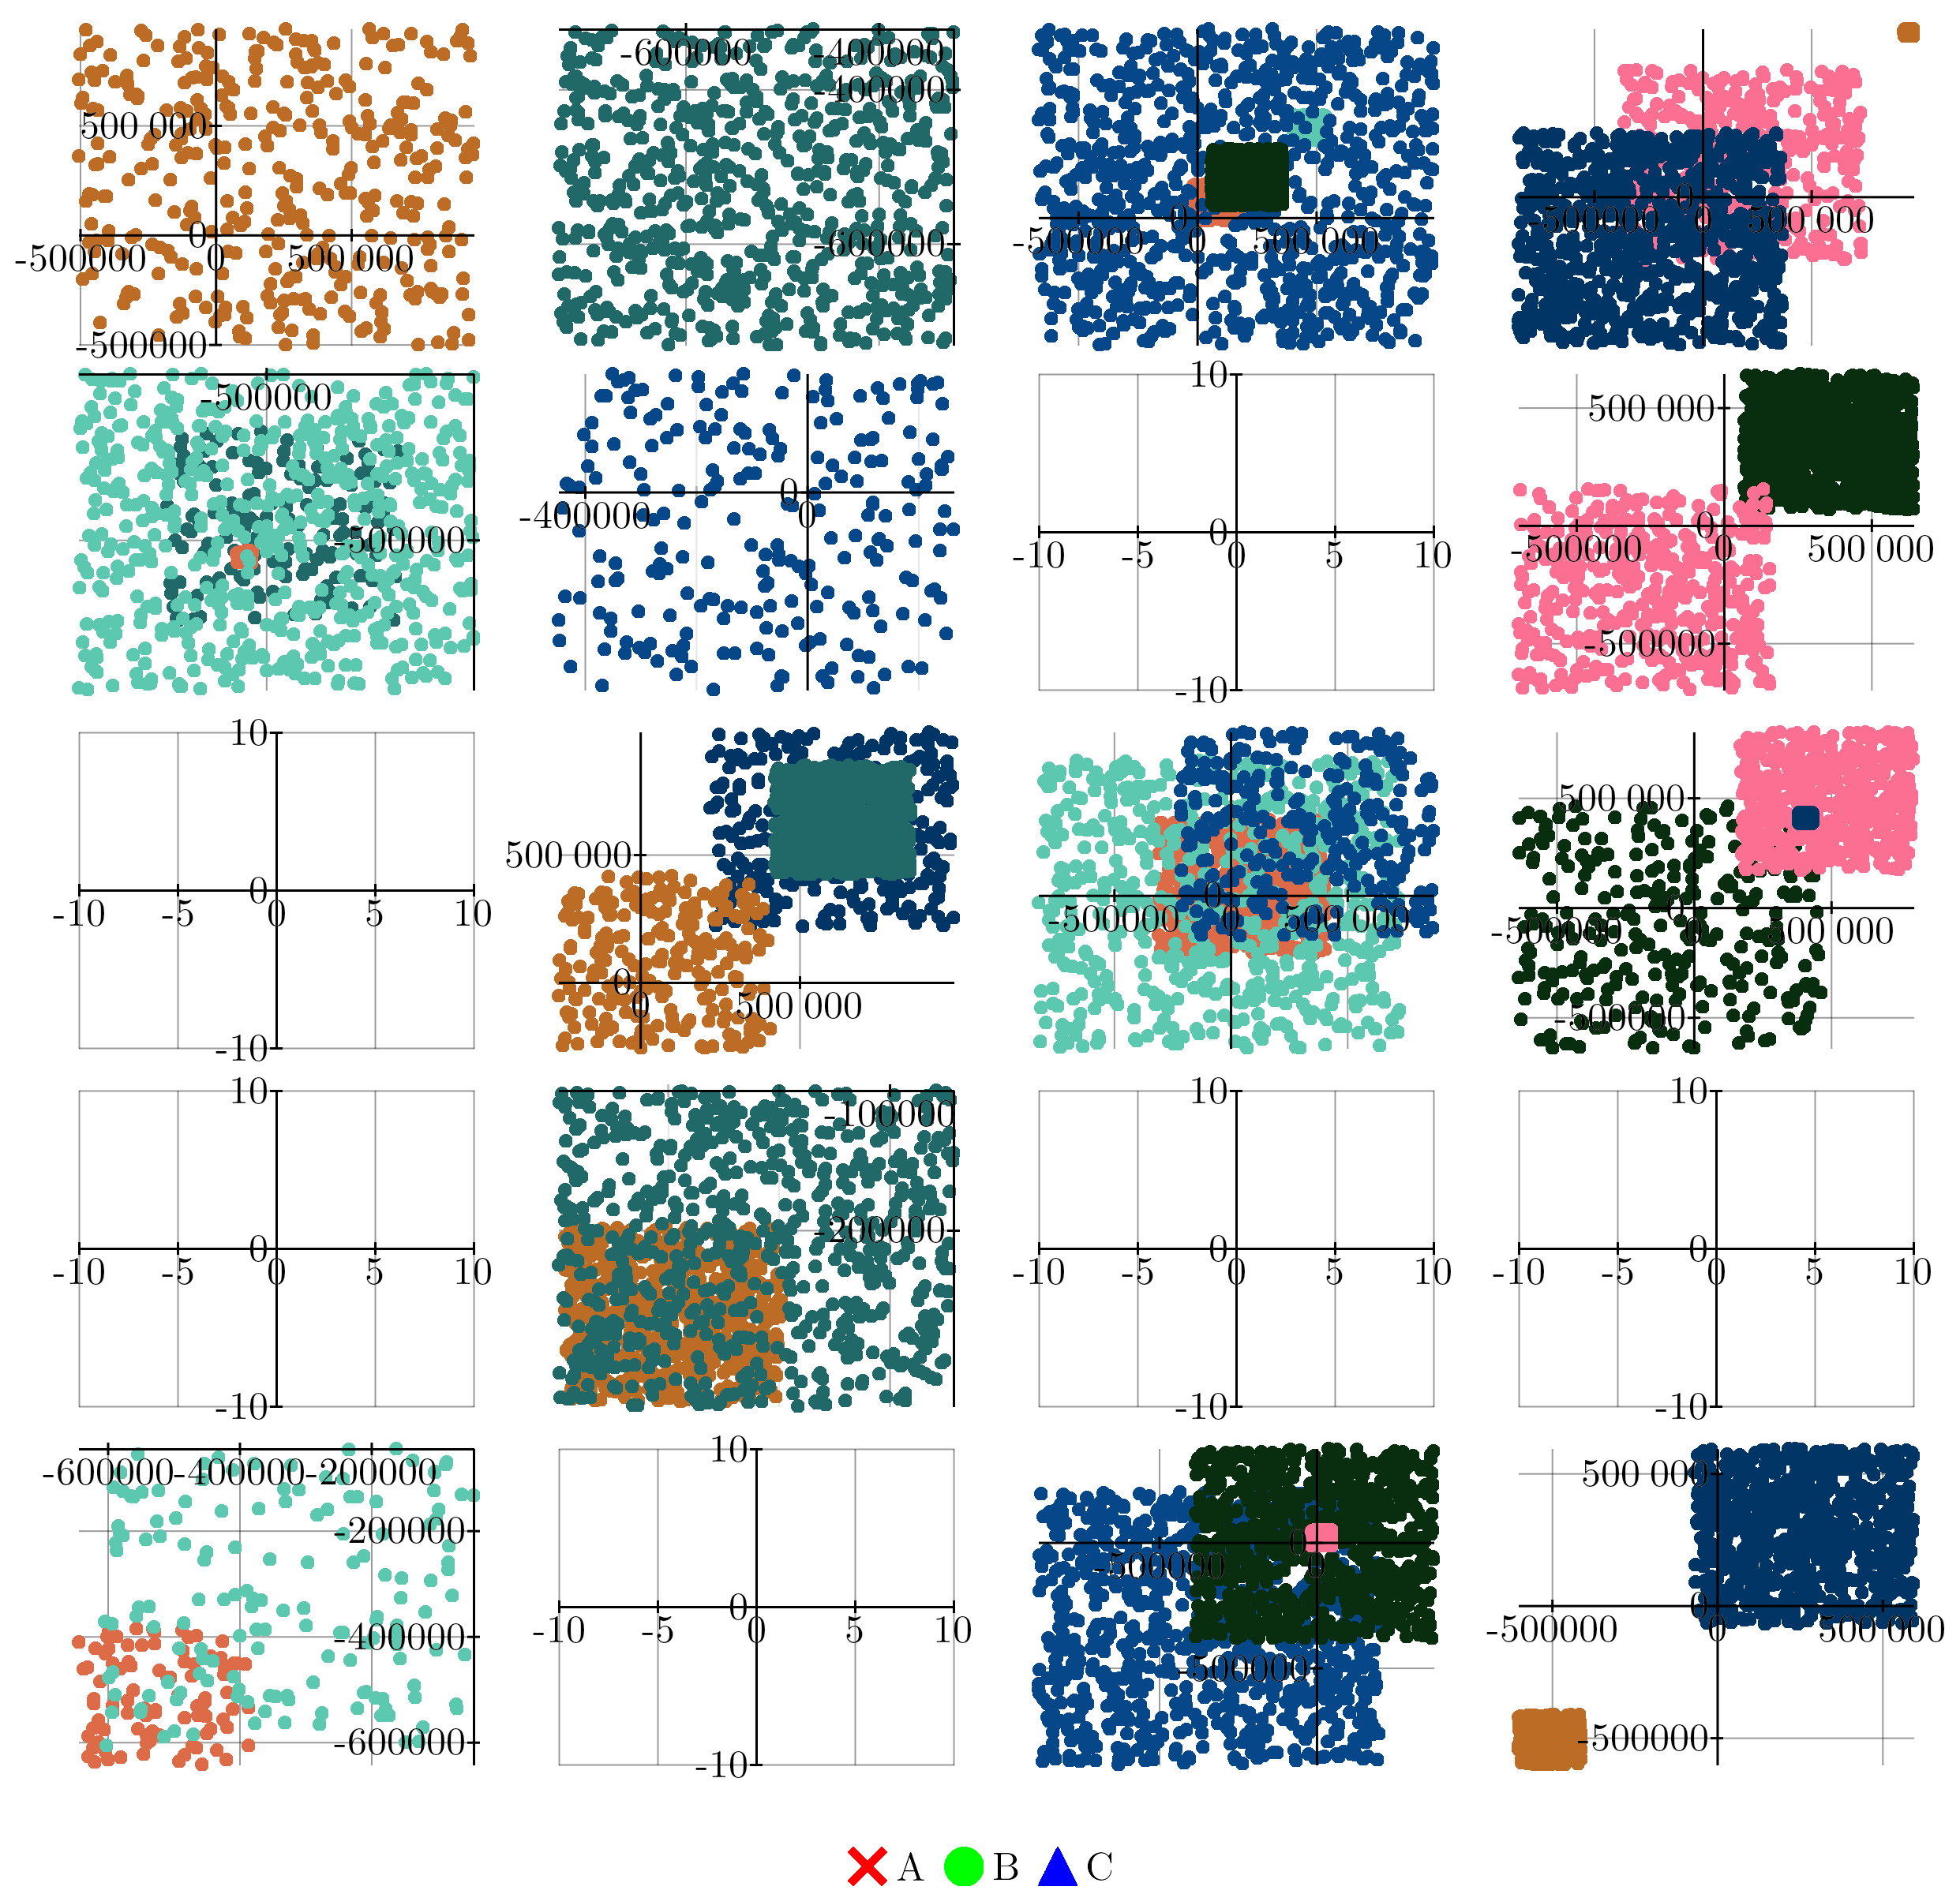
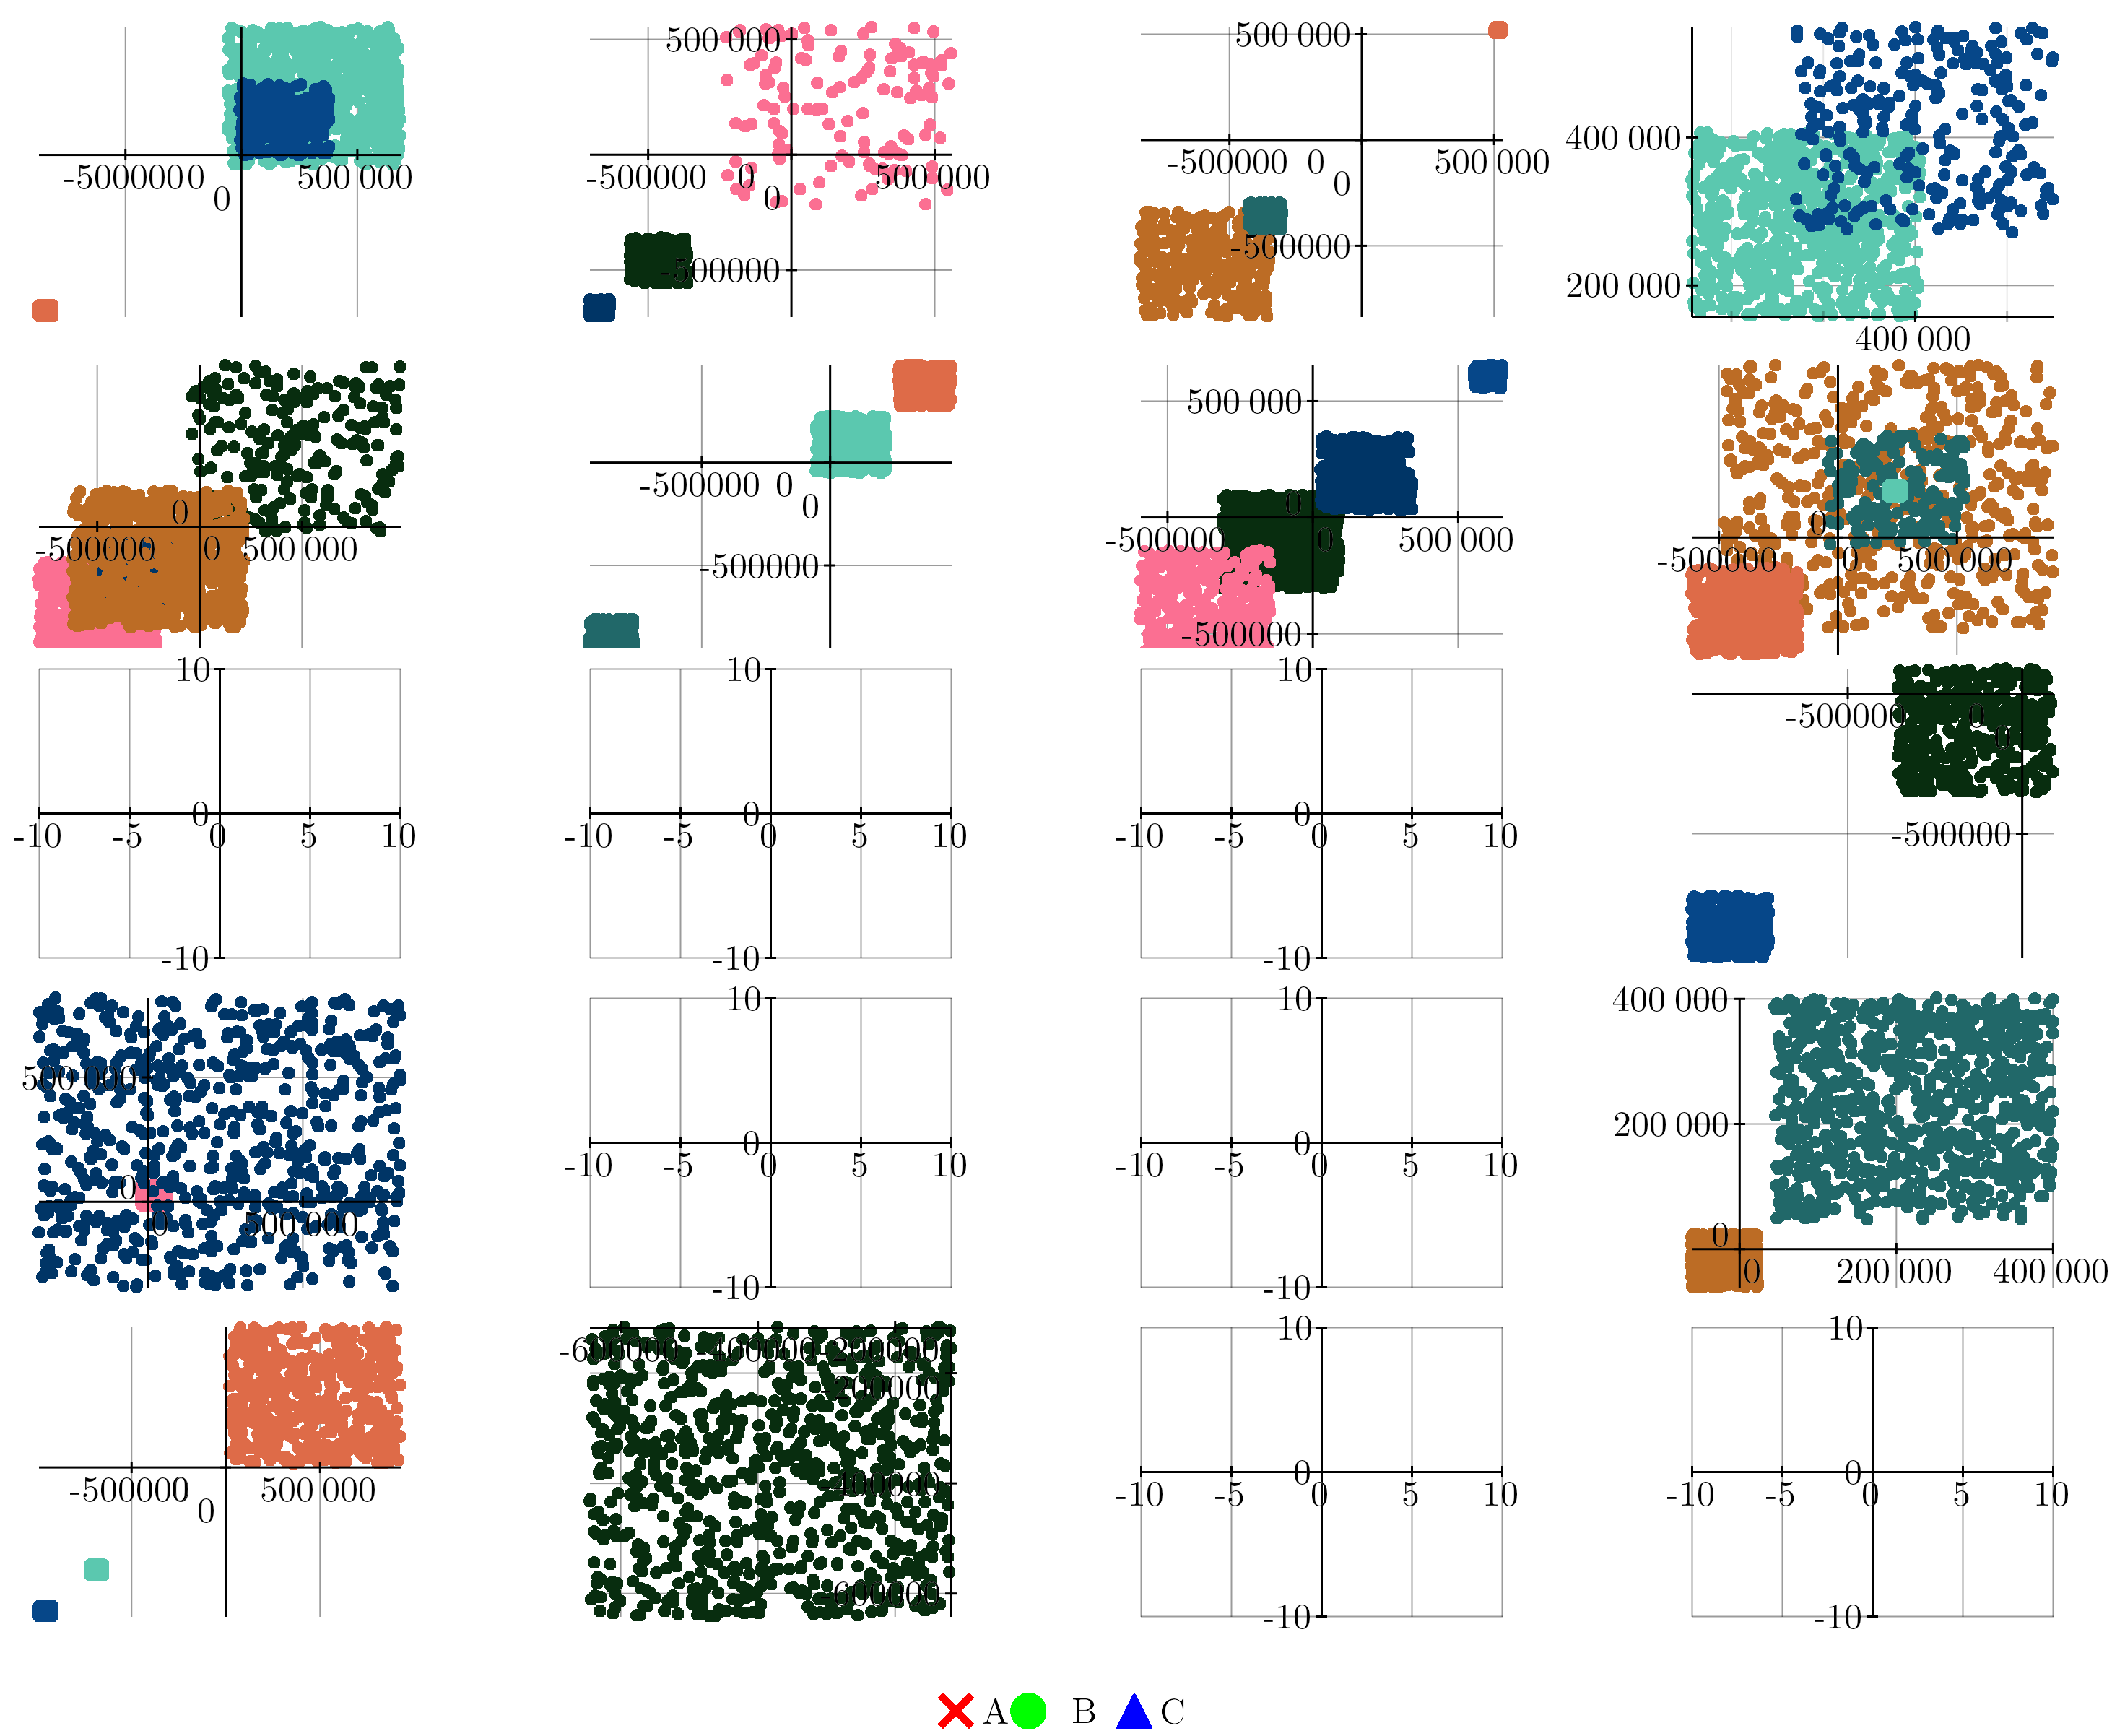
Enhance color handling and documentation
- Introduced a new `to_rgba` function for normalizing colors to RGBA tuples, supporting hex strings and named colors.
- Updated various components to utilize `to_rgba` for consistent color handling across shapes, lines, and styles.
- Enhanced documentation for global styles to clarify color format options.
- Added unit tests for `to_rgba` to ensure correct functionality and error handling for various color inputs.
- Included new images for testing and visual validation of legend rendering.

diff --git a/tests/cases/test_color.py b/tests/cases/test_color.py
@@ -1,0 +1,68 @@
+"""
+Unit tests for centralized color parsing (to_rgba).
+"""
+
+import sys
+from pathlib import Path
+
+sys.path.insert(0, str(Path(__file__).resolve().parent.parent.parent / "src"))
+
+import numpy as np
+from ward import test
+
+import kaxe
+from kaxe.core.color import to_rgba, SingleColormap, Colormaps
+from kaxe.core.d3.helper import formatColor
+from kaxe.core.shapes import shapes
+
+
+@test("hex string parses to RGBA tuple")
+def _():
+    assert to_rgba("#FF5154") == (255, 81, 84, 255)
+
+
+@test("RGB sequence gets opaque alpha")
+def _():
+    assert to_rgba((10, 20, 30)) == (10, 20, 30, 255)
+
+
+@test("RGBA sequence is preserved")
+def _():
+    assert to_rgba((10, 20, 30, 100)) == (10, 20, 30, 100)
+
+
+@test("numpy RGBA array is accepted")
+def _():
+    assert to_rgba(np.array([1, 2, 3, 4])) == (1, 2, 3, 4)
+
+
+@test("Colormap instances are rejected")
+def _():
+    try:
+        to_rgba(Colormaps.standard)
+        raised = False
+    except TypeError:
+        raised = True
+    assert raised
+
+
+@test("Rectangle accepts hex color")
+def _():
+    rect = shapes.Rectangle(0, 0, 10, 10, color="#AFE3C0")
+    assert rect.color == (175, 227, 192, 255)
+
+
+@test("formatColor accepts hex for 3D")
+def _():
+    arr = formatColor("#004b23")
+    assert len(arr) == 4
+    assert int(arr[0]) == 0
+    assert int(arr[1]) == 75
+    assert int(arr[2]) == 35
+    assert int(arr[3]) == 255
+
+
+@test("SingleColormap accepts hex without NameError")
+def _():
+    cmap = SingleColormap("#004b23", total=3)
+    assert len(cmap.colorGradientSteps) == 3

diff --git a/src/kaxe/core/color.py b/src/kaxe/core/color.py
@@ -5,6 +5,47 @@ import numpy as np
 from typing import Union
 
 
+def to_rgba(color) -> tuple[int, int, int, int]:
+    """
+    Normalize a color to an RGBA tuple with channels in 0–255.
+
+    Parameters
+    ----------
+    color : str, sequence, or numpy array
+        Hex string (e.g. ``"#FF5154"``), named color (e.g. ``"red"``),
+        or RGB/RGBA sequence.
+
+    Returns
+    -------
+    tuple[int, int, int, int]
+        ``(r, g, b, a)`` with integer channels 0–255.
+
+    Raises
+    ------
+    TypeError
+        If ``color`` is a :class:`Colormap` instance.
+    ValueError
+        If the color format is not recognized.
+    """
+    if isinstance(color, Colormap):
+        raise TypeError("to_rgba() does not accept Colormap instances; use getColor() instead")
+
+    if isinstance(color, str):
+        return ImageColor.getcolor(color, "RGBA")
+
+    try:
+        channels = tuple(color)
+    except TypeError:
+        raise ValueError(f"Unsupported color type: {type(color)!r}") from None
+
+    if len(channels) == 3:
+        channels = (*channels, 255)
+    elif len(channels) != 4:
+        raise ValueError(f"Color sequence must have length 3 or 4, got {len(channels)}")
+
+    return tuple(max(0, min(255, int(round(c)))) for c in channels)
+
+
 class Colormap:
     """
     A class to represent a colormap that interpolates colors from a gradient.
@@ -18,11 +59,8 @@ class Colormap:
     def __init__(self, colorGradientSteps:Union[list, tuple]):
         colorGradientSteps = list(colorGradientSteps).copy()
         self.colorGradientSteps = colorGradientSteps
-        for i, phex in enumerate(colorGradientSteps):
-            if type(phex) is str:
-                self.colorGradientSteps[i] = np.array(ImageColor.getcolor(phex, "RGBA"))
-            else:
-                self.colorGradientSteps[i] = np.array(self.colorGradientSteps[i])
+        for i, step in enumerate(colorGradientSteps):
+            self.colorGradientSteps[i] = np.array(to_rgba(step))
 
     
     def getColor(self, value:Union[int, float], start:Union[int, float], end:Union[int, float]):
@@ -114,13 +152,7 @@ class SingleColormap(Colormap):
 
     def __init__(self, color, spread=0.3, total=10):
 
-        if type(color) is str:
-            color = np.array(ImageColor.getcolor(hex, "RGBA"))
-
-        if len(color) == 3:
-            color = (*color, 255)
-        
-        color = np.array(color)
+        color = np.array(to_rgba(color))
 
         self.color = color
         self.spread = spread

diff --git a/src/kaxe/core/legend.py b/src/kaxe/core/legend.py
@@ -133,13 +133,17 @@ class LegendBox(AttrObject):
                     currentLinePos[0] += width
                     row_mid = y + row["height"] / 2
                     symbol.x = x
-                    # Circle uses cornerAlign (x, y) = top-left of bbox; rectangles use bottom-left y.
                     if isinstance(symbol, shapes.Circle):
-                        symbol.y = row_mid + symbolSize[1] / 2
-                        sym_min_y = symbol.y - symbolSize[1]
-                        sym_max_y = symbol.y
+                        symbol.centerAlign()
+                        symbol.y = row_mid
+                        sym_min_x = symbol.x - symbolSize[0] / 2
+                        sym_max_x = symbol.x + symbolSize[0] / 2
+                        sym_min_y = symbol.y - symbolSize[1] / 2
+                        sym_max_y = symbol.y + symbolSize[1] / 2
                     else:
                         symbol.y = row_mid - symbolSize[1] / 2
+                        sym_min_x = symbol.x
+                        sym_max_x = symbol.x + symbolSize[0]
                         sym_min_y = symbol.y
                         sym_max_y = symbol.y + symbolSize[1]
                     text.setLeftTopPos(
@@ -152,10 +156,10 @@ class LegendBox(AttrObject):
                     
                     # find left top most
                     tx, ty = text.getLeftTopPos()
-                    maxPos[0] = max(maxPos[0], tx + text.width, symbol.x + symbolSize[0])
+                    maxPos[0] = max(maxPos[0], tx + text.width, sym_max_x)
                     maxPos[1] = max(maxPos[1], ty, sym_max_y)
 
-                    minPos[0] = min(minPos[0], tx, symbol.x)
+                    minPos[0] = min(minPos[0], tx, sym_min_x)
                     minPos[1] = min(minPos[1], ty - text.height, sym_min_y)
 
                 currentLinePos[1] += row["height"] + legendGridSpacing[1]
@@ -189,6 +193,8 @@ class LegendBox(AttrObject):
                 parent.addPaddingCondition(bottom=height+legendGap)
 
             else: # Only works with PILLOW
+                self.batch.push(-minPos[0], -minPos[1])
+                self.boxshape.push(-minPos[0], -minPos[1])
                 surface = Image.new('RGBA', (int(width), int(height)), (0,0,0,0))
 
                 self.boxshape.draw(surface)

diff --git a/src/kaxe/core/shapes.py b/src/kaxe/core/shapes.py
@@ -6,6 +6,7 @@ from random import randint
 from PIL import Image, ImageDraw
 from .styles import *
 from .helper import *
+from .color import to_rgba
 from .line import drawLineOnPillowImage
 from .svg import SvgDocument
 import os
@@ -54,7 +55,7 @@ def findMinMax(*pairs):
 
 
 def prepColor(color):
-    return tuple(int(round(i)) for i in color)
+    return to_rgba(color)
 
 
 
@@ -124,7 +125,7 @@ class Rectangle(Shape):
         if batch: batch.add(self)
 
         self.outlineWidth = outlineWidth
-        self.outlineColor = outlineColor
+        self.outlineColor = prepColor(outlineColor)
 
 
     def centerAlign(self):
@@ -167,7 +168,7 @@ class Line(Shape):
         self.y0 = y0
         self.y1 = y1
         self.thickness = width
-        self.color = color
+        self.color = to_rgba(color)
         self.batch = batch
         self.width = int(self.x1)
         self.height = int(max(self.y0, self.y1) - min(self.y0, self.y1))
@@ -250,7 +251,7 @@ class Circle(Shape):
         self.x = x
         self.y = y
         self.radius = radius
-        self.color = color
+        self.color = to_rgba(color)
         self.cornerAlign = cornerAlign
         self.fill = fill
         self.width = width
@@ -370,7 +371,7 @@ class Triangle(Shape):
         self.p1 = p1
         self.p2 = p2
         self.p3 = p3
-        self.color = color
+        self.color = to_rgba(color)
         self.batch = batch
         super().__init__()
         if batch: batch.add(self)
@@ -418,7 +419,7 @@ class Triangle(Shape):
 class Polygon(Shape):
 
     def __init__(self, *points, color:tuple=BLACK, batch:Batch=None):
-        self.color = color
+        self.color = to_rgba(color)
         self.batch = batch
         super().__init__()
         if batch: batch.add(self)
@@ -470,7 +471,7 @@ class LineSegment(Shape):
         self.dashed = dashed
         self.dashedDist = dashedDist
         self.thickness = width
-        self.color = color
+        self.color = to_rgba(color)
         self.batch = batch
         self.centerAlign = center
         self.offset = [0,0]
@@ -571,7 +572,7 @@ class Arc(Shape):
         self.radius = int(radius)
         self.center = [center[0], center[1]]
         
-        self.color = color
+        self.color = to_rgba(color)
         self.batch = batch
         
         super().__init__()

diff --git a/src/kaxe/core/d3/helper.py b/src/kaxe/core/d3/helper.py
@@ -1,6 +1,7 @@
 
 from random import randint
 import numpy as np
+from ..color import to_rgba
 
 
 def rc() -> tuple:
@@ -14,7 +15,4 @@ def clamp(v, a, b):
     return min(max(v, a), b)
 
 def formatColor(color):
-    if len(color) == 3:
-        color = [*color, 255]
-
-    return np.array([np.uint8(i) for i in color], dtype=np.int32)
+    return np.array([np.uint8(i) for i in to_rgba(color)], dtype=np.int32)

diff --git a/src/kaxe/core/line.py b/src/kaxe/core/line.py
@@ -1,5 +1,6 @@
 
 import numpy as np
+from .color import to_rgba
 
 # DRAW LINES
 def trapez(y,y0,w):
@@ -73,10 +74,7 @@ def drawLineOnPillowImage(
 
     pixels = surface.load()
 
-    if len(color) < 4:
-        color = list(color)
-        color.append(255)
-
+    color = to_rgba(color)
 
     for i in range(len(a)):
 

diff --git a/src/kaxe/core/styles.py b/src/kaxe/core/styles.py
@@ -66,15 +66,17 @@ def setDefaultColors(colorList:list):
     Parameters
     ----------
     colorList : list
-        A list of colors to be set as the default colors.
+        A list of colors to be set as the default colors. Entries may be RGBA
+        tuples or hex/named color strings (see :func:`kaxe.to_rgba`).
     
     Notes
     -----
     This function sets the global variable `colors` to the provided list of colors.
     """
+    from .color import to_rgba
 
     global colors
-    colors = colorList
+    colors = [to_rgba(c) for c in colorList]
 
 
 class bcolors:

diff --git a/src/kaxe/core/svg.py b/src/kaxe/core/svg.py
@@ -12,6 +12,8 @@ from typing import Any, Optional, Union
 
 from PIL import Image
 
+from .color import to_rgba
+
 SVG_NS = "http://www.w3.org/2000/svg"
 XLINK_NS = "http://www.w3.org/1999/xlink"
 
@@ -26,8 +28,8 @@ def flip_y(y: float, height: int) -> float:
 
 def rgba_to_svg(color: tuple) -> tuple[str, Optional[float]]:
     """Return (fill/stroke color string, opacity or None)."""
-    r, g, b = int(color[0]), int(color[1]), int(color[2])
-    alpha = color[3] / 255.0 if len(color) > 3 else 1.0
+    r, g, b, a = to_rgba(color)
+    alpha = a / 255.0
     opacity = None if alpha >= 1.0 else round(alpha, 4)
     return f"rgb({r},{g},{b})", opacity
 

diff --git a/src/kaxe/__init__.py b/src/kaxe/__init__.py
@@ -38,7 +38,7 @@ from .core import getRandomColor
 from .core import resetColor
 from .core import symbol as Symbol
 from .core import symbol
-from .core import Colormaps, SingleColormap, Colormap
+from .core import Colormaps, SingleColormap, Colormap, to_rgba
 from .core.window import Window, AttrObject, AttrMap, setSetting
 from .core import Axis
 

diff --git a/src/kaxe/core/__init__.py b/src/kaxe/core/__init__.py
@@ -5,5 +5,5 @@ from .symbol import CustomSymbol, symbol
 from .styles import resetColor, setDefaultColors, getRandomColor
 from .axis import Axis
 from .round import koundTeX
-from .color import Colormaps, SingleColormap, Colormap
+from .color import Colormaps, SingleColormap, Colormap, to_rgba
 from .window import setSetting

diff --git a/docs/pages/styling.rst b/docs/pages/styling.rst
@@ -46,10 +46,10 @@ Common global styles
      - Base font size for labels and math
    * - ``color``
      - black
-     - Default foreground color (RGBA tuple)
+     - Default foreground color (RGBA tuple or hex string, e.g. ``"#000000"``)
    * - ``backgroundColor``
      - white
-     - Canvas background (RGBA tuple)
+     - Canvas background (RGBA tuple or hex string)
    * - ``outerPadding``
      - [50, 50, 50, 50]
      - Padding around the plot area: left, bottom, top, right

diff --git a/docs/pages/utilities.rst b/docs/pages/utilities.rst
@@ -20,6 +20,8 @@ Global settings
 Colors
 ------
 
+.. autofunction:: kaxe.to_rgba
+
 .. autofunction:: kaxe.setDefaultColors
 
 .. autofunction:: kaxe.resetColor